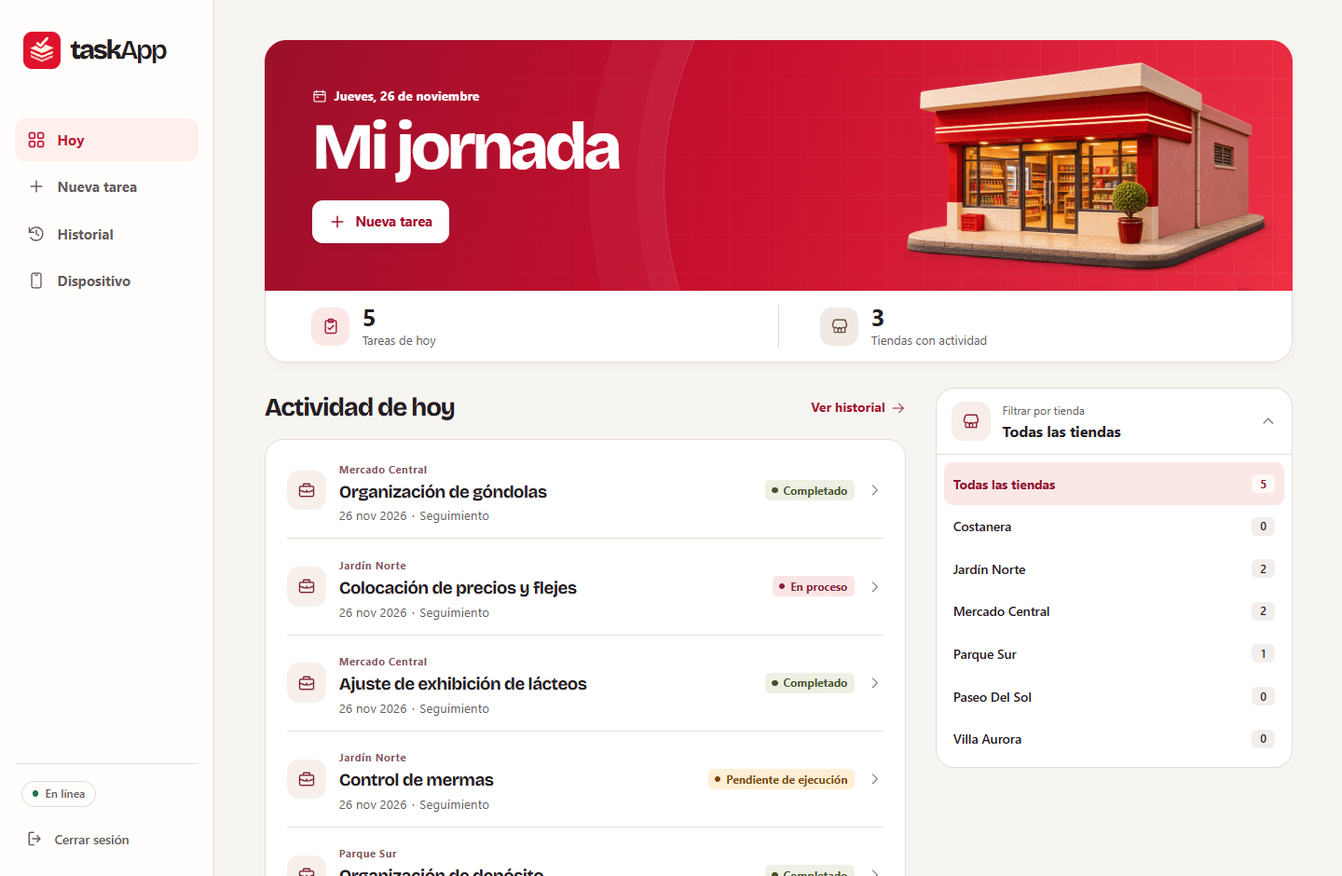
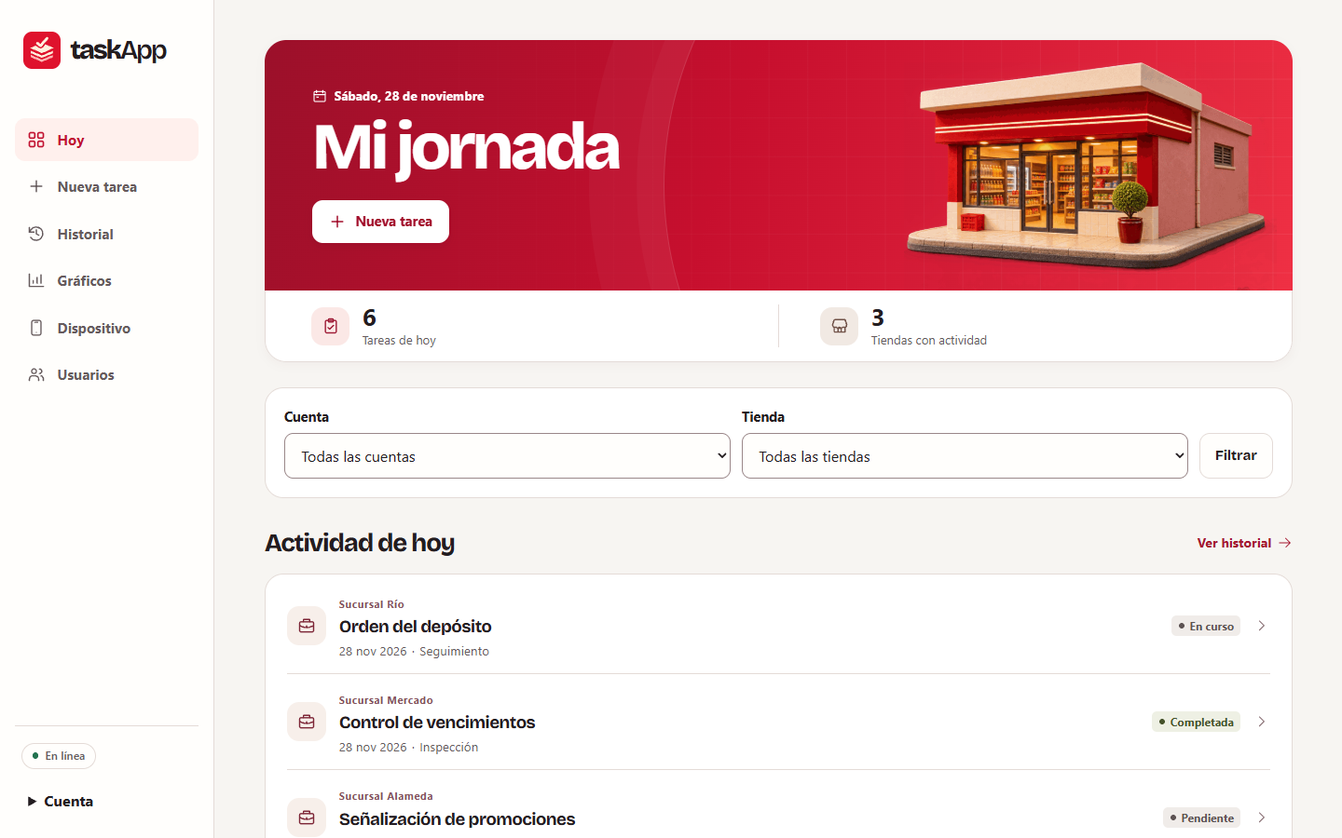
Refresh repository documentation and presentation

diff --git a/README.md b/README.md
@@ -1,96 +1,73 @@
-# taskApp
+# ![Marca de taskApp](assets/icon-32.png) taskApp
 
-![Bitácora de trabajo diario con una ilustración de tienda](docs/media/cover.png)
+**La bitácora de trabajo de tus tiendas.**
 
-Registra cada trabajo desde la tienda. Al cerrar la jornada, puedes consultar qué se hizo, qué quedó pendiente y sacar un informe para compartir. taskApp es una aplicación privada para móvil y escritorio.
+Registra lo que se hizo en cada sucursal, consulta lo que queda pendiente y comparte un informe de la jornada. taskApp es una aplicación de uso interno que instalas en tu propio servidor. Funciona en móvil y escritorio y permite seguir registrando tareas cuando se corta la conexión.
 
-[Puesta en marcha](#puesta-en-marcha) · [Jornada](#la-jornada-en-tienda) · [Gráficos](#gráficos) · [Informes](#del-historial-al-informe) · [Uso sin conexión](#llevarla-en-el-móvil) · [Servidor](#despliegue-en-servidor)
+![Rust](https://img.shields.io/badge/Rust-30363d?style=flat-square)
+![Axum](https://img.shields.io/badge/Axum-30363d?style=flat-square)
+![SQLite](https://img.shields.io/badge/SQLite-30363d?style=flat-square)
+![Docker](https://img.shields.io/badge/Docker-30363d?style=flat-square)
+![PWA](https://img.shields.io/badge/PWA-30363d?style=flat-square)
 
-## Puesta en marcha
+[Instalar](#instalación-rápida) · [Registrar tareas](#registro-de-tareas) · [Gráficos e informes](#gráficos-e-informes) · [Trabajo sin conexión](#trabajo-sin-conexión) · [Arquitectura](#arquitectura)
 
-Desde la raíz del proyecto, con Docker y Docker Compose instalados, ejecuta el siguiente comando.
+![Vista Hoy en escritorio y móvil, con indicadores y tareas de sucursales ficticias](docs/media/cover.png)
 
-```sh
+## Instalación rápida
+
+Necesitas Git, Docker y Docker Compose.
+
+```bash
+git clone https://github.com/mateoschreiber/taskApp.git
+cd taskApp
 docker compose up --build -d
 ```
 
-Abre **[taskApp en esta PC](http://127.0.0.1:8080)**. Para pruebas locales, usa `admin` como usuario y contraseña. Si necesitas otro puerto, define `TASKAPP_PORT` en `.env`. Esta configuración permite el acceso desde esa misma PC.
+Entra en [taskApp local](http://127.0.0.1:8080). En un volumen nuevo de pruebas, el usuario y la contraseña iniciales son `admin`. El servicio local escucha solo en esta PC. Puedes definir `TASKAPP_PORT` en `.env` si el puerto 8080 está ocupado. SQLite guarda los datos en el volumen `tasks`, que persiste al recrear el contenedor.
 
-La primera ejecución prepara un historial vacío y **33 opciones** tomadas de `Hoja1` del Excel original. Los nuevos registros se guardan en SQLite dentro del volumen `tasks` y se conservan al recrear el contenedor.
+Para un servidor compartido, usa el [despliegue de producción](docs/despliegue.md#producción), con HTTPS y una contraseña propia.
 
-## La jornada en tienda
+## Registro de tareas
 
-En **Hoy**, consulta cuántas tareas se registraron y en cuántas tiendas. Abre **Filtrar por tienda** para ver un local y toca **Nueva tarea** en la cabecera de la jornada. El formulario conserva la tienda elegida y propone la fecha de Paraguay. Escribe parte del nombre de un trabajo para buscarlo. Los campos de tienda, supervisor, zona, intervención y estado también sugieren opciones. Si necesitas una nueva, elige **Agregar** antes de guardar.
+En **Hoy** puedes ver los totales de la jornada, filtrar por tienda y abrir una tarea nueva con esa sucursal seleccionada. **Historial** muestra los registros del más reciente al más antiguo, con paginación y filtro por cuenta para el administrador.
 
-<picture>
-  <source media="(max-width: 600px)" srcset="docs/media/mobile.png">
-  <img src="docs/media/desktop.png" alt="Pantalla Hoy con la actividad de la jornada, el acceso a Nueva tarea y el filtro de tiendas.">
-</picture>
+1. Selecciona una sucursal en **Nueva tarea**.
+2. Completa los datos generales. El formulario propone la fecha de Paraguay.
+3. Completa el trabajo, el tipo de intervención, el estado y las observaciones del primer bloque. Usa **Agregar otra tarea** para sumar bloques de la misma sucursal.
+4. Guarda el lote con un solo botón. Puedes registrar entre 1 y 100 tareas.
 
-[Ver captura móvil](docs/media/mobile.png) · [Ver captura de escritorio](docs/media/desktop.png)
+El servidor valida todos los bloques y guarda el lote completo en una transacción SQLite. Cada tarea tiene su propio registro y comparte los datos generales del lote. Si se reintenta el mismo envío tras una interrupción, el servidor devuelve los registros ya creados. Los catálogos ofrecen sugerencias al escribir y permiten agregar valores propios.
 
-## Gráficos
+[Hoy en escritorio](docs/media/desktop.png) · [Hoy en móvil](docs/media/mobile.png) · [Formulario con dos tareas](docs/media/task-batch.png)
 
-Elige el mes en curso, los últimos 7 o 30 días o un rango personalizado. Consulta la evolución de tareas, la actividad por tienda, los estados, los trabajos más frecuentes y los tipos de intervención. Toca una barra para ver las tareas que representa. El PDF descarga los cinco gráficos y el detalle de todo el rango.
+## Gráficos e informes
 
-![Gráficos de taskApp en escritorio con datos ficticios y barras interactivas.](docs/media/charts-desktop.png)
+**Gráficos** resume el total de tareas, las tiendas con actividad y los recuentos por estado. Explora la evolución por fecha, las tiendas, los estados, los trabajos más frecuentes y los tipos de intervención. Selecciona una barra para abrir los registros que la componen. La evolución se agrupa por día, semana, mes o año según el período. Puedes consultar el mes en curso, los últimos 7 o 30 días o un rango propio. El administrador también puede filtrar por cuenta.
 
-[Ver gráficos en móvil](docs/media/charts-mobile.png) · [Ver el informe de muestra](docs/media/report.png)
+![Gráficos en escritorio con evolución de tareas y distribución por estado, con datos ficticios](docs/media/charts-desktop.png)
 
-## Del historial al informe
+[Ver gráficos en móvil](docs/media/charts-mobile.png)
 
-En **Historial → Exportar**, elige el primer y el último día. La descarga incluye ambas fechas y los registros guardados de todas las tiendas.
+Desde **Historial → Exportar**, elige el período y el formato. Ambos extremos del rango se incluyen. El administrador puede exportar todas las cuentas o una sola. En **Gráficos**, también puedes descargar en PDF el período consultado en línea si tiene actividad.
 
-| Formato | Qué contiene |
+| Formato | Contenido |
 | --- | --- |
-| **Excel · .xlsx** | Una hoja **Tareas** con los campos del registro y las fechas del rango seleccionado. |
-| **PDF · A4** | Un informe listo para compartir, con cinco gráficos, trabajos agrupados por fecha y observaciones completas. |
+| [Excel · XLSX](docs/media/excel.png) | Hoja editable **Actividades** con encabezados, autofiltro y filas superiores inmovilizadas. |
+| [PDF · A4](docs/media/report.png) | Informe con período, responsable o equipo, fecha de generación, resumen ejecutivo, distribución por estado, registro y observaciones. |
 
-<details>
-<summary><strong>Ver una página del informe PDF</strong></summary>
+## Trabajo sin conexión
 
-![Página de muestra del informe de trabajos realizados con datos ficticios.](docs/media/report.png)
+Abre la app con conexión e inicia sesión antes de ir a tienda. La PWA guarda el catálogo y las tareas propias de los últimos 30 días. La copia se puede usar durante ocho horas desde su última actualización.
 
-</details>
+- En **Dispositivo** puedes crear tareas, guardar lotes y editar registros disponibles en la copia. Los envíos pendientes se conservan por cuenta y se sincronizan con la app abierta al recuperar la conexión.
+- **Gráficos** consulta las tareas confirmadas que estén dentro del rango de la copia. El historial completo, las exportaciones y los datos de otras cuentas requieren conexión.
+- Puedes instalar la PWA desde el menú de Chromium o, en Safari para iPhone, desde **Compartir → Agregar a pantalla de inicio**.
 
-## Llevarla en el móvil
+Consulta [Usuarios y permisos](docs/usuarios.md) para administrar cuentas, revisar quién puede ver los registros y preparar un navegador compartido.
 
-Abre la URL **HTTPS** del servidor desde el teléfono. En Chromium, elige la opción de instalar la aplicación en el menú del navegador. En Safari para iPhone, usa **Compartir → Agregar a pantalla de inicio**.
+## Arquitectura
 
-| Durante la jornada | Qué sucede |
-| --- | --- |
-| **Preparar la visita** | Al entrar con conexión se descargan los catálogos y las tareas de los últimos 30 días. La copia permite trabajar hasta ocho horas desde la última actualización. |
-| **Trabajar sin señal** | Puedes registrar tareas y editar las que ya están en el dispositivo. En Gráficos puedes explorar las tareas confirmadas de la copia local. El historial completo y las exportaciones requieren conexión. |
-| **Volver a tener señal** | Con la app abierta, los cambios se envían automáticamente. En **Dispositivo** puedes reintentar el envío o comparar dos versiones de una tarea y decidir cuál conservar. |
+**Rust y Axum** sirven HTML con plantillas **Askama**. El navegador usa JavaScript nativo, un *Service Worker* para abrir las vistas offline e **IndexedDB** para la copia local y la cola. **SQLite** almacena las tareas, las cuentas y las sesiones. El servidor genera Excel con **rust_xlsxwriter** y PDF con **Typst**. Docker empaqueta la aplicación y sus herramientas de informes.
 
-Si vence la sesión, vuelve a entrar con conexión para recuperar los cambios pendientes. **Cerrar sesión** borra los datos de ese dispositivo y pide confirmación si quedan cambios por enviar.
-
-## Usuarios
-
-La cuenta **admin** gestiona el acceso desde **Cuenta → Usuarios**. Cada persona trabaja con sus propias tareas y sugerencias. Admin puede consultar y exportar el conjunto. Consulta la [guía de usuarios, permisos y migración](docs/usuarios.md).
-
-## Despliegue en servidor
-
-1. Crea un túnel de Cloudflare y dirige el dominio público a `http://app:8080`. Activa la redirección a HTTPS y guarda el token del túnel en `secrets/tunnel_token`.
-2. Desde la raíz, ejecuta `cargo run --locked -- hash-password`. Elige una contraseña de al menos 15 caracteres. Guarda el hash Argon2id que imprime en `secrets/password_hash`, en UTF-8 sin BOM, y concede lectura al usuario del contenedor correspondiente. taskApp usa el UID `65532`.
-3. En `.env`, asigna el dominio a `TASKAPP_ORIGIN`, por ejemplo `https://tareas.ejemplo.com`, sin barra final. Inicia los servicios.
-
-   ```sh
-   docker compose -f compose.prod.yaml up --build -d
-   ```
-
-4. Abre el dominio por HTTPS e inicia sesión como `admin` con la contraseña elegida.
-
-> [!IMPORTANT]
-> Conserva fuera de Git el Excel original, `.env`, los secretos y la base de trabajo. Para trasladar la instalación, detén la app antes de copiar el volumen completo de SQLite.
-
-## Desarrollo
-
-El servidor usa **Rust, Axum y Askama**. SQLite conserva las tareas y sus revisiones. La PWA guarda la copia de trabajo en IndexedDB. El servidor genera Excel con **rust_xlsxwriter** y PDF con **Typst**. Docker incluye Typst. Para exportar PDF al ejecutar con Cargo, instala Typst y déjalo disponible en el `PATH`.
-
-```sh
-cargo fmt --check
-cargo clippy --locked --all-targets -- -D warnings
-```
-
-Para verificar los flujos de cuentas con una base temporal, compila con `cargo build --locked` y ejecuta `python tests/accounts_http.py target/debug/taskapp` (usa `.exe` en Windows).
+[Diagrama y arquitectura](docs/arquitectura.md) · [Despliegue y respaldos](docs/despliegue.md) · [Desarrollo y pruebas](docs/desarrollo.md) · [Cambios](CHANGELOG.md) · [Seguridad](SECURITY.md)

diff --git a/docs/despliegue.md b/docs/despliegue.md
@@ -1,0 +1,62 @@
+# Despliegue
+
+## Local
+
+Usa la [instalación rápida](../README.md#instalación-rápida) para probar taskApp desde la misma PC. [compose.yaml](../compose.yaml) publica el puerto solo en `127.0.0.1`. La credencial inicial `admin:admin` es exclusiva de una base nueva de pruebas.
+
+## Producción
+
+[compose.prod.yaml](../compose.prod.yaml) conecta taskApp con Cloudflare Tunnel en la red de Compose y prescinde de publicar el puerto de la aplicación en el host.
+
+1. Configura un túnel de Cloudflare para dirigir un dominio al servicio `http://app:8080`. Fuerza HTTPS para ese dominio. Guarda el token en `secrets/tunnel_token`.
+2. Ejecuta `cargo run --locked -- hash-password` con Rust disponible. Elige una contraseña de al menos 15 caracteres y hasta 256 bytes. Guarda el hash Argon2id que muestra el comando en `secrets/password_hash`, en UTF-8 sin BOM. Concede permiso de lectura al UID `65532` que usa la aplicación en el contenedor.
+3. En `.env`, define `TASKAPP_ORIGIN=https://tareas.ejemplo.com` con el origen HTTPS real, sin barra final.
+4. Arranca el servicio y revisa sus registros.
+
+```bash
+docker compose -f compose.prod.yaml up --build -d
+docker compose -f compose.prod.yaml logs --tail 50 app
+```
+
+Entra por el dominio HTTPS como `admin` con la contraseña elegida. El hash del archivo inicializa la credencial cuando la base aún no la tiene. Después, la base conserva la credencial vigente y reemplazar el archivo no la rota. Usa **Cuenta → Mi cuenta** para cambiarla. Si perdiste el acceso, detén la aplicación y ejecuta estos comandos con el volumen del despliegue.
+
+```bash
+docker compose -f compose.prod.yaml stop app
+docker compose -f compose.prod.yaml run --rm --no-deps app reset-admin-password
+docker compose -f compose.prod.yaml up -d app
+```
+
+> [!IMPORTANT]
+> Conserva la base de trabajo, el Excel original, `.env`, los respaldos y los secretos fuera de Git y de las imágenes. Usa una base de producción separada de la de pruebas. El servidor rechaza arrancar en producción si la credencial almacenada de administrador sigue siendo la de pruebas.
+
+## Variables y archivos
+
+| Configuración | Uso |
+| --- | --- |
+| `TASKAPP_MODE` | `local` (valor predeterminado) o `production`. Los archivos Compose lo asignan explícitamente. |
+| `TASKAPP_PORT` | Puerto publicado por el Compose local en la PC. Predeterminado `8080`. |
+| `TASKAPP_BIND` | Dirección de escucha. Predeterminado `127.0.0.1:8080` al ejecutar el binario y `0.0.0.0:8080` en Docker. |
+| `TASKAPP_DB` | Ruta de SQLite. Predeterminado `taskapp.sqlite` al ejecutar el binario y `/data/taskapp.sqlite` en Docker. |
+| `TASKAPP_ORIGIN` | Origen HTTPS público, obligatorio en producción. |
+| `TASKAPP_PASSWORD_HASH_FILE` | Ruta del hash inicial de administrador para una base nueva en producción. Compose monta el secreto en `/run/secrets/password_hash`. |
+| `secrets/tunnel_token` | Archivo local que el Compose de producción entrega a `cloudflared`. |
+
+## Respaldo, actualización y reversión
+
+El volumen `tasks` almacena todo `/data`. Compose administra un volumen por proyecto, así que conserva el mismo nombre de proyecto al actualizar. Evita `docker compose down -v` sobre un despliegue con datos.
+
+1. Confirma que los dispositivos sincronizaron sus pendientes. Guarda el commit o la imagen anterior. Construye la nueva imagen antes de detener el servicio si puedes.
+2. Detén la app y copia todo `/data` desde el contenedor detenido a un directorio privado y vacío. Incluye los archivos auxiliares de SQLite. Por ejemplo, para un entorno local en Bash:
+
+   ```bash
+   backup_dir="$HOME/taskapp-backups/antes-de-actualizar"
+   mkdir -p "$backup_dir"
+   docker compose stop app
+   docker compose cp app:/data/. "$backup_dir"
+   ```
+
+3. Prueba la actualización en una copia. Con el volumen habitual, ejecuta `docker compose up --build -d` y revisa los registros, el acceso y el historial. En producción, usa `-f compose.prod.yaml` para estos comandos.
+4. Para restaurar, conserva el volumen actual y crea uno vacío en un proyecto separado o con una configuración de Compose que lo monte en `/data`. Con la aplicación detenida, copia el directorio completo al nuevo volumen y asigna los archivos al UID y GID `65532`. Verifica acceso e historial con la copia antes de sustituir el volumen del servicio.
+5. Si necesitas revertir una actualización, usa la imagen anterior con el respaldo previo a la migración. Conserva aparte la base que recibió cambios después del respaldo para revisarlos antes de reabrir el acceso.
+
+Consulta la guía oficial de [respaldo y restauración de volúmenes de Docker](https://docs.docker.com/engine/storage/volumes/#back-up-restore-or-migrate-data-volumes) para montar ambos directorios en un contenedor auxiliar.

diff --git a/docs/arquitectura.md b/docs/arquitectura.md
@@ -1,0 +1,56 @@
+# Arquitectura
+
+taskApp es una aplicación de un solo servicio. Axum atiende solicitudes y Askama renderiza HTML en el servidor. La PWA usa JavaScript nativo para mejorar la navegación, los formularios y la consulta de datos sin conexión.
+
+```mermaid
+flowchart TD
+    subgraph Client["Navegador / PWA"]
+        UI["HTML y JavaScript nativo"]
+        SW["Service Worker"]
+        IDB["IndexedDB · copia y cola"]
+        UI --- SW
+        UI --- IDB
+    end
+    subgraph Host["Docker · servicio taskApp"]
+        API["Axum · HTTP"]
+        HTML["Askama · vistas"]
+        Sessions["tower-sessions · sesiones"]
+        Sync["Tareas y sincronización"]
+        DB[("SQLite")]
+        XLSX["rust_xlsxwriter · XLSX"]
+        PDF["Typst · PDF"]
+        API --> HTML & Sessions & Sync & XLSX & PDF
+        Sessions --> DB
+        Sync --> DB
+    end
+    UI -->|"HTTP local"| API
+    UI -.->|"HTTPS"| Tunnel["Cloudflare Tunnel · opción de producción"]
+    Tunnel -.->|"HTTP en red Docker"| API
+```
+
+## Código y persistencia
+
+| Ubicación | Responsabilidad |
+| --- | --- |
+| [main.rs](../src/main.rs) | Configuración, rutas, migraciones, sesiones y recursos estáticos. |
+| [auth.rs](../src/auth.rs) y [users.rs](../src/users.rs) | Inicio de sesión, credenciales, permisos, cuentas y auditoría de cambios de usuario. |
+| [tasks.rs](../src/tasks.rs) | Jornada, historial, formularios, catálogo, lotes y sincronización. |
+| [charts.rs](../src/charts.rs) y [charts.js](../assets/charts.js) | Agregación del período, gráficos, exploración de registros y cálculo sobre la copia local. |
+| [exports.rs](../src/exports.rs) y [tasks.typ](../reports/tasks.typ) | Consulta por rango y cuenta, generación del XLSX y composición del PDF. |
+| [templates/](../templates/) y [assets/](../assets/) | Plantillas, estilos, lógica del navegador y recursos de la PWA. |
+
+Las [migraciones SQLx](../migrations/) definen tareas con fecha, tienda, supervisor, zona, trabajo, intervención, estado y notas. Las tareas pertenecen a una cuenta y tienen una revisión para detectar ediciones concurrentes. El catálogo inicial es compartido y cada cuenta conserva sus opciones adicionales. SQLite guarda las sesiones, las credenciales y los recibos de operaciones en la misma base.
+
+## Alta de lotes y sincronización
+
+El formulario envía los campos compartidos, hasta 100 bloques y un identificador de operación a `POST /api/tareas/lote`. El servidor abre una transacción SQLite `BEGIN IMMEDIATE`, valida la sesión y cada bloque, y guarda las tareas, las opciones nuevas y los recibos juntos. Si falla algún bloque, revierte todo. Si recibe otra vez el mismo identificador, devuelve los recibos de la operación ya confirmada.
+
+El *Service Worker* almacena archivos estáticos y ofrece pantallas offline cuando la red falla. `GET /api/offline` devuelve el catálogo y las tareas propias de los últimos 30 días, hasta la fecha actual en Paraguay. [offline.js](../assets/offline.js) conserva esa copia durante ocho horas y separa las colas por cuenta en IndexedDB. La interfaz vuelve a intentar los envíos pendientes cuando recupera la conexión. Los lotes usan la misma ruta de alta. Las ediciones sincronizadas usan `POST /api/tareas/sync` y comparan revisiones. Si hay conflicto, **Dispositivo** permite revisar la versión del servidor antes de decidir qué conservar.
+
+## Cuentas y alcance operativo
+
+El servidor deriva la identidad de la sesión, comprueba el alcance de las consultas y valida CSRF en las operaciones de escritura. Argon2id protege las contraseñas. Las sesiones expiran tras ocho horas de inactividad. El administrador puede consultar los registros de otras cuentas y solo puede editar y sincronizar los propios. Los detalles de permisos y migración están en [Usuarios](usuarios.md).
+
+SQLite es la fuente de verdad. La copia de cada navegador es parcial y las exportaciones se generan en el servidor. El Historial pagina por fecha e ID y permite al administrador filtrar por cuenta. La búsqueda de texto pertenece al autocompletado de catálogos en el formulario.
+
+La evolución de los gráficos agrupa rangos de hasta 31 días por día, de 32 a 90 por semana, de 91 a 730 por mes y los superiores a 730 por año. Sin conexión, el rango se limita a las fechas de la copia del dispositivo. Typst ejecuta la plantilla de informe con los datos consultados para producir el PDF. Docker incluye el ejecutable y las fuentes necesarias para distribuirlo.

diff --git a/docs/desarrollo.md b/docs/desarrollo.md
@@ -1,0 +1,43 @@
+# Desarrollo
+
+Instala Rust con Cargo, rustfmt y Clippy. El [Dockerfile](../Dockerfile) compila con Rust 1.100 y usa el conjunto de dependencias de [Cargo.lock](../Cargo.lock). Si ejecutas el binario fuera de Docker, instala Typst y deja `typst` en el `PATH` para generar PDF. El contenedor usa Typst 0.14.2 e incluye Liberation Sans.
+
+```bash
+cargo fmt --check
+cargo clippy --locked --all-targets -- -D warnings
+cargo build --locked
+cargo test --locked
+```
+
+Para el arranque local, usa `cargo run --locked`. El binario escucha por defecto en `127.0.0.1:8080` y crea `taskapp.sqlite` si no existe. Define `TASKAPP_BIND` y `TASKAPP_DB` para usar un puerto libre y una base de prueba propia. Las plantillas y los recursos se incorporan al binario.
+
+## Pruebas de integración
+
+Las dos suites arrancan el binario en un puerto disponible con una base SQLite temporal. Ejecútalas después de `cargo build --locked`. Necesitas Python 3. En Linux, usa `python3` si el comando `python` no está disponible. En Windows, usa `target/debug/taskapp.exe` y, si tienes el lanzador de Windows, puedes invocar Python con `py -3`.
+
+```bash
+python tests/accounts_http.py target/debug/taskapp
+```
+
+[accounts_http.py](../tests/accounts_http.py) usa solo la biblioteca estándar. Comprueba credenciales, permisos entre cuentas, persistencia y recuperación del administrador.
+
+[task_batches.py](../tests/task_batches.py) requiere Playwright, pypdf, un navegador compatible y Typst en el `PATH`. La suite comprueba el alta, los lotes, los reintentos, el trabajo offline, el historial, los gráficos y las exportaciones. Por defecto, usa Chrome instalado. Si ejecutas con Edge, establece `TASKAPP_BROWSER=msedge`.
+
+```bash
+python -m pip install playwright pypdf
+python -B tests/task_batches.py target/debug/taskapp
+```
+
+Alternativamente, si usas [uv](https://docs.astral.sh/uv/), puedes ejecutar la suite con dependencias temporales. Ejemplo en Windows:
+
+```powershell
+uv run --with playwright --with pypdf python -B tests/task_batches.py target/debug/taskapp.exe
+```
+
+Para incluir la comprobación de accesibilidad de los formularios, instala `axe-core` en un directorio temporal y define `TASKAPP_AXE` con la ruta a su `axe.min.js` antes de ejecutar la suite. Estas herramientas son para desarrollo.
+
+## Capturas y muestras
+
+La suite de lotes escribe capturas en `target/task-batch-evidence/`. Para preparar imágenes de publicación, usa una instancia aislada con la función `server` de la suite HTTP y datos ficticios. Inicia sesión en un contexto nuevo del navegador. Carga varias tiendas ficticias y tareas con fechas recientes, distintos trabajos y estados. Sustituye también los nombres y opciones del catálogo que se vean en pantalla.
+
+Captura **Hoy** y **Gráficos** a 1440 × 900 en escritorio y 390 × 844 en móvil. Para **Nueva tarea**, completa dos bloques con datos de ejemplo y captura el formulario. Descarga el PDF y el XLSX mediante **Historial → Exportar**. Renderiza la página del PDF con un visor y la hoja **Actividades** con una aplicación de hojas de cálculo. Guarda solo las imágenes optimizadas en [media/](media/). Los datos, descargas y archivos intermedios quedan fuera de Git.

diff --git a/docs/usuarios.md b/docs/usuarios.md
@@ -5,7 +5,7 @@ Abre **Cuenta → Usuarios** como administrador. Puedes crear cuentas, editar el
 | Operación | Admin | Cuenta normal |
 | --- | --- | --- |
 | Administrar cuentas | Sí | — |
-| Consultar tareas, gráficos y exportaciones | Todas las cuentas, con filtro en Historial, Gráficos y Exportar | Sus propias tareas |
+| Consultar tareas, gráficos y exportaciones | Todas las cuentas, con filtro en Hoy, Historial, Gráficos y Exportar | Sus propias tareas |
 | Crear, editar y sincronizar tareas | Sus propias tareas | Sus propias tareas |
 | Sugerencias | Catálogo inicial y sus valores nuevos | Catálogo inicial y sus valores nuevos |
 | Copia local | Hasta 30 días de sus propias tareas | Hasta 30 días de sus propias tareas |
@@ -18,11 +18,6 @@ Eliminar una cuenta elimina su credencial y sus sugerencias privadas. Las tareas
 
 La PWA separa las colas por cuenta. Los cambios pendientes anteriores a la migración quedan disponibles para admin después de iniciar sesión con conexión. Al cambiar de cuenta, la aplicación sustituye la copia activa por la de la cuenta autenticada. En un dispositivo sin red, la última copia válida puede seguir disponible durante ocho horas desde su actualización. El servidor rechaza cambios de cuentas eliminadas al reconectar. Cierra sesión antes de compartir el navegador.
 
-## Actualizar Docker y recuperar una copia
+## Recuperación
 
-1. Antes de actualizar, confirma que los dispositivos sincronizaron sus cambios y construye la nueva imagen. Conserva la imagen anterior para poder revertir.
-2. Detén el servicio con `docker compose stop app`. Respalda el contenido completo de `/data` del contenedor detenido en una carpeta privada fuera del repositorio. Incluye cualquier archivo auxiliar de SQLite. Prueba primero la migración en una copia.
-3. Ejecuta `docker compose up -d --build` con el volumen existente. Revisa `docker compose logs --tail 50 app` y confirma que admin puede iniciar sesión, que el historial conserva las tareas y que una cuenta normal solo ve las suyas.
-4. Para revertir, conserva el volumen migrado y restaura la copia previa en un volumen aparte para arrancar con la imagen anterior. Revisa los cambios posteriores al respaldo antes de volver a habilitar el acceso.
-
-En producción aplica los mismos pasos con `docker compose -f compose.prod.yaml`. Mantén el origen HTTPS y los secretos de Cloudflare y del hash de admin. Para rotar la contraseña de admin, genera un hash con `cargo run --locked -- hash-password`, reemplaza el secreto y recrea el servicio.
+Si admin pierde su contraseña, consulta [Despliegue](despliegue.md#producción) para recuperar el acceso. Antes de actualizar Docker o migrar una base, sigue el procedimiento de [respaldo, actualización y reversión](despliegue.md#respaldo-actualización-y-reversión).

diff --git a/SECURITY.md b/SECURITY.md
@@ -1,0 +1,16 @@
+# Seguridad y privacidad
+
+## Reportar una vulnerabilidad
+
+El reporte privado de GitHub está desactivado. El propietario tiene pendiente habilitar un canal privado. Si ya tienes contacto privado con quien mantiene taskApp, comparte allí un resumen, la versión o commit, el impacto y los pasos mínimos para verificar el problema con datos ficticios.
+
+Evita publicar detalles de vulnerabilidades en issues, discusiones o pull requests. Excluye credenciales, tokens, datos operativos y copias de SQLite. Consulta la [configuración de reporte privado en GitHub](https://docs.github.com/en/code-security/how-tos/report-and-fix-vulnerabilities/configure-vulnerability-reporting/configure-for-a-repository).
+
+## Operación
+
+- Usa HTTPS y una contraseña exclusiva para producción. Limita `admin:admin` a una base local de pruebas. Entrega contraseñas temporales por un canal privado.
+- Mantén tokens, hashes, bases y respaldos fuera de Git, de las imágenes Docker y de los enlaces compartidos. Restringe el acceso al volumen y a sus copias según los permisos de tu equipo.
+- Cierra sesión antes de ceder un navegador compartido. La PWA puede conservar tareas propias y cambios pendientes en IndexedDB. Verifica la sincronización antes de cerrar sesión o borrar el almacenamiento del navegador.
+- Respalda el volumen completo con la aplicación detenida y verifica la restauración en una copia. Trata las exportaciones con el mismo cuidado que los datos originales.
+
+Consulta [Despliegue](docs/despliegue.md) para HTTPS, secretos y respaldos, y [Usuarios](docs/usuarios.md) para permisos y recuperación.

diff --git a/CHANGELOG.md b/CHANGELOG.md
@@ -1,0 +1,24 @@
+# Changelog
+
+Los cambios relevantes se documentan siguiendo [Keep a Changelog](https://keepachangelog.com/en/1.1.0/).
+
+## Unreleased
+
+### Added
+
+- Alta de hasta 100 tareas para la misma sucursal, con campos generales compartidos y un registro por tarea.
+- Validación, persistencia atómica e idempotencia para guardar y sincronizar lotes, incluso ante cortes de conexión.
+- Administración de usuarios y separación de tareas, sugerencias y colas offline por cuenta.
+- Gestión de perfil y contraseña, con recuperación del administrador desde el binario.
+
+### Changed
+
+- Rediseño de Gráficos, con indicadores del período, distribución por estado y acceso al detalle desde las barras.
+- Rediseño de las exportaciones: hoja Excel **Actividades** e informe PDF con resumen, registro y observaciones.
+- El filtro de sucursales muestra los nombres sin contadores en las opciones.
+- Mejoras en la navegación y la disposición de formularios en móvil y escritorio.
+- Validación de usuarios simplificada para crear y editar cuentas.
+
+### Fixed
+
+- El menú de sugerencias se abre hacia arriba si falta espacio debajo del campo, por ejemplo al usar el teclado en móvil.
